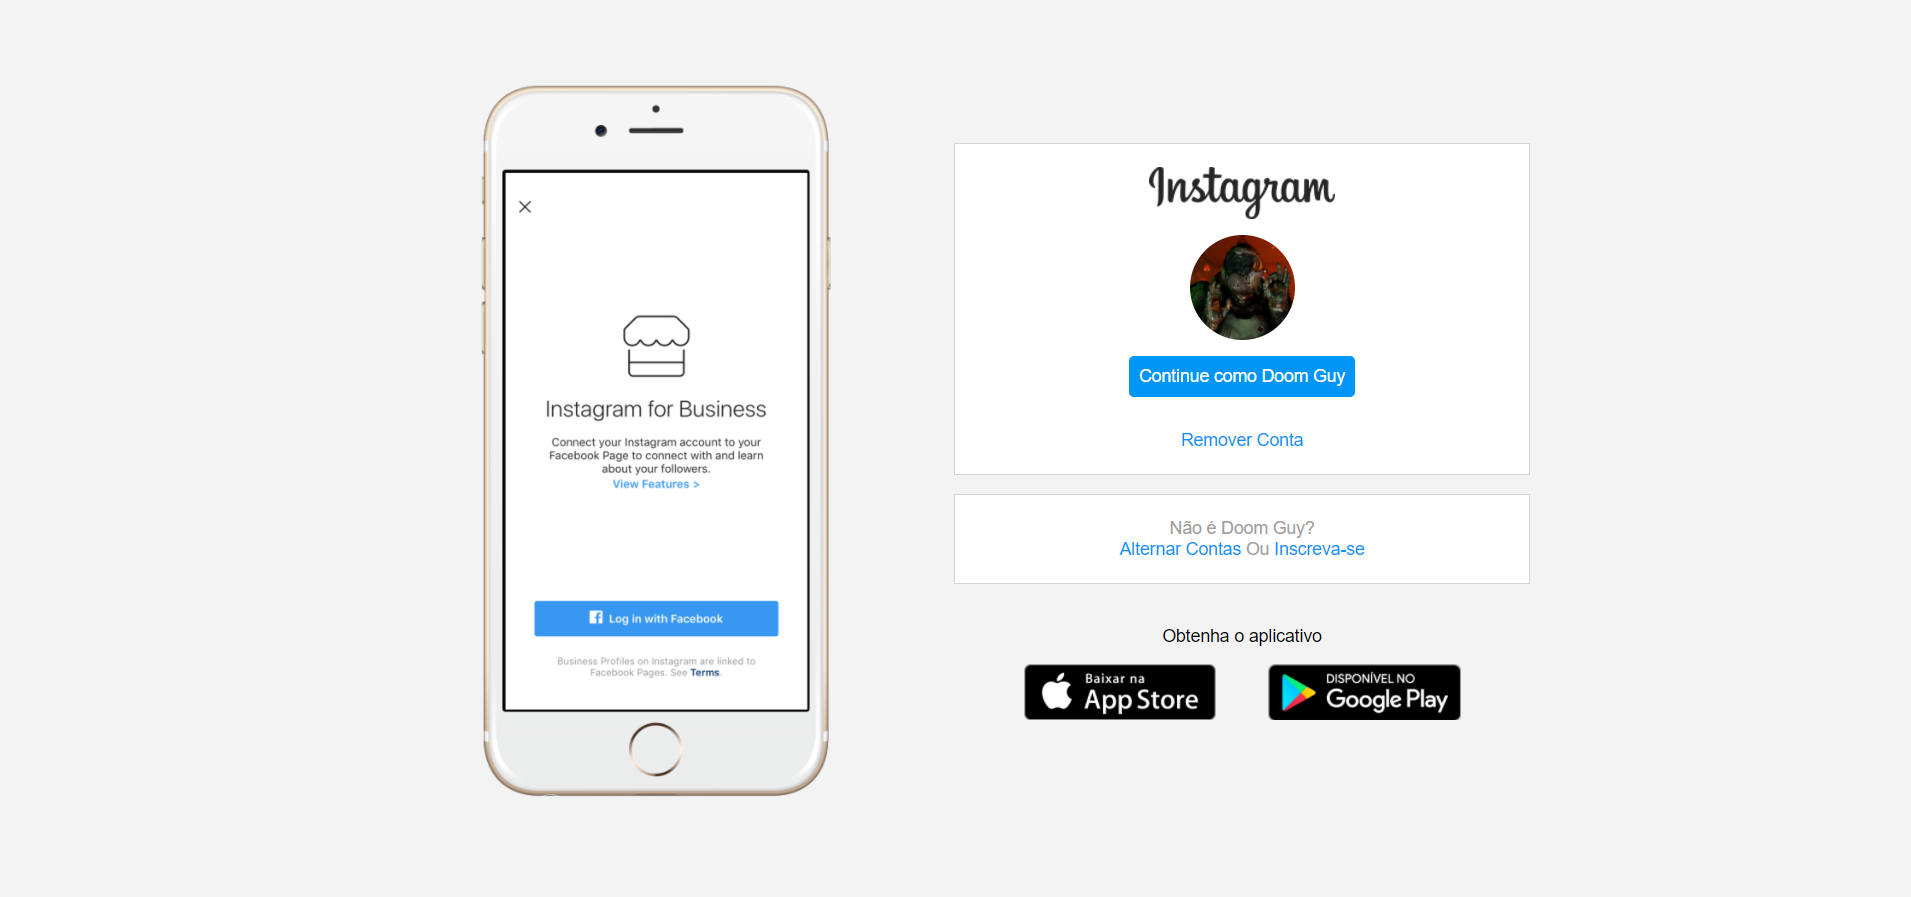
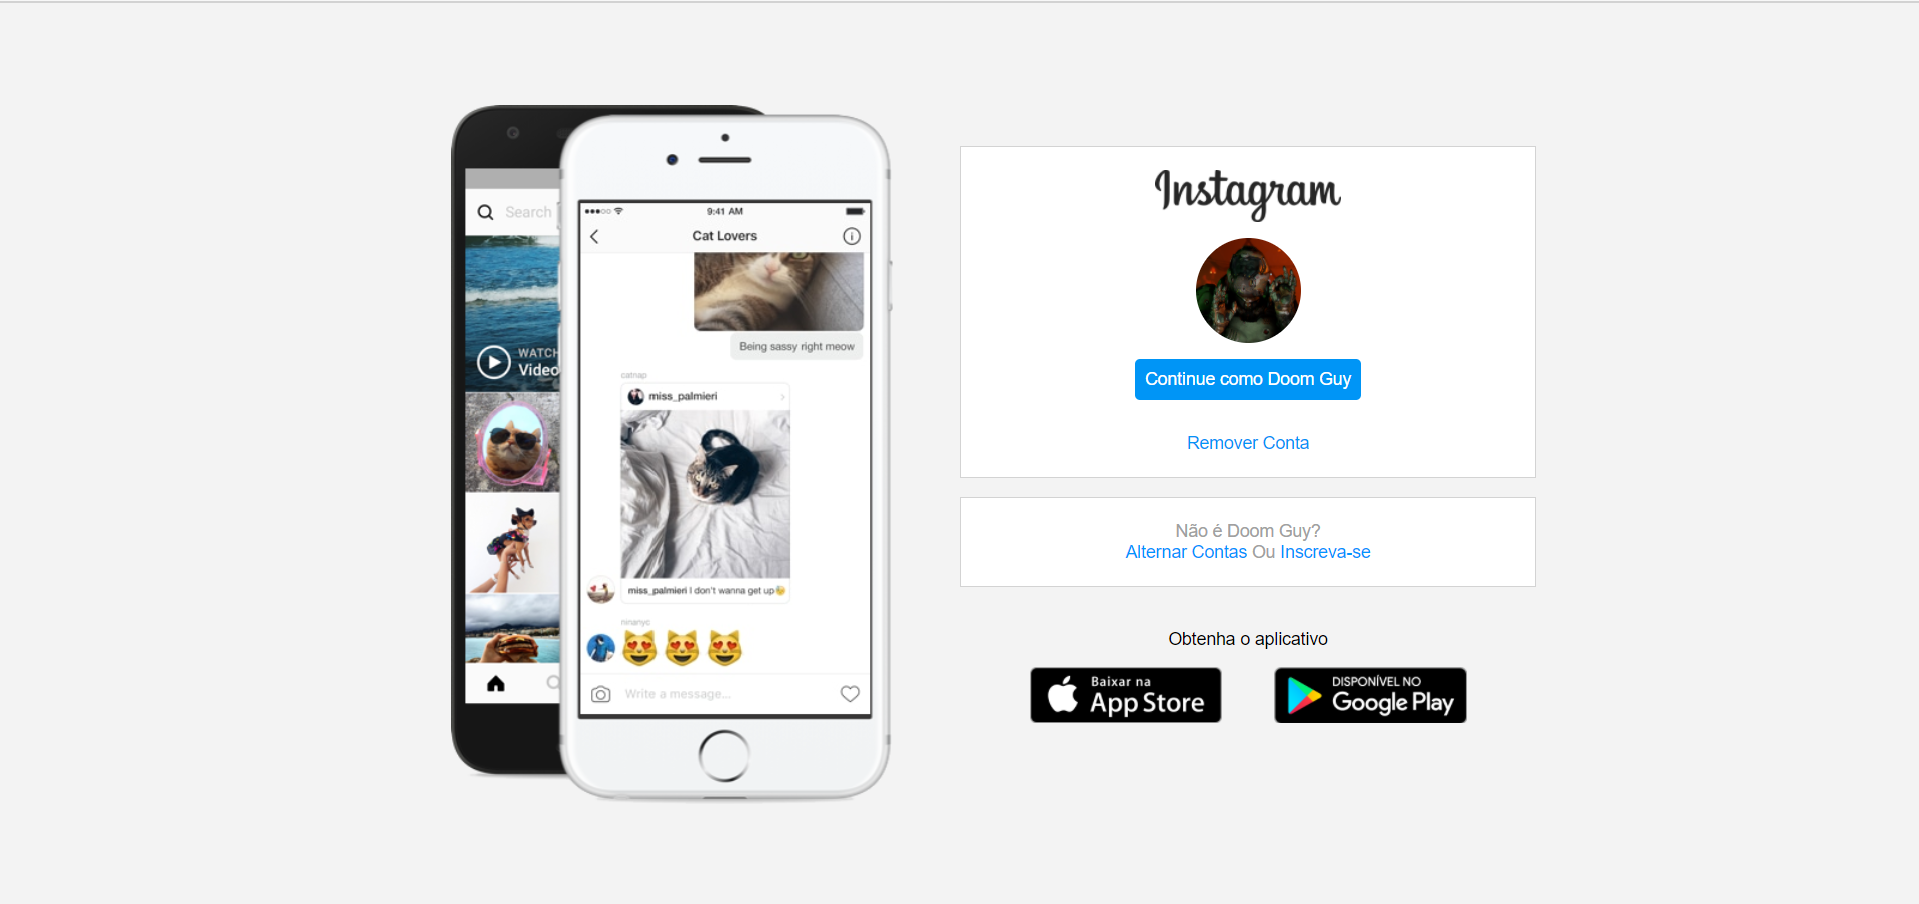
Upload do projeto v2

diff --git a/Recriando_pagina_inicial_do_Instagram/index.html b/Recriando_pagina_inicial_do_Instagram/index.html
@@ -9,7 +9,7 @@
 <body>
 	<div class="instagram-wrapper">
 		<div class="instagram-phone">
-			<img src="./img/celular-instagram-2.png" alt="celular">
+			<img src="./img/celular-instagram-3.png" alt="celular">
 		</div>
 		<div class="instagram-continue">
 			<div class="group">

diff --git a/Recriando_pagina_inicial_do_Instagram/style.css b/Recriando_pagina_inicial_do_Instagram/style.css
@@ -32,7 +32,7 @@ body{
 	width: 50%;
 }
 .instagram-phone  img {
-	height: 50rem;
+	height: 40rem;
 }
 
 .instagram-continue{
